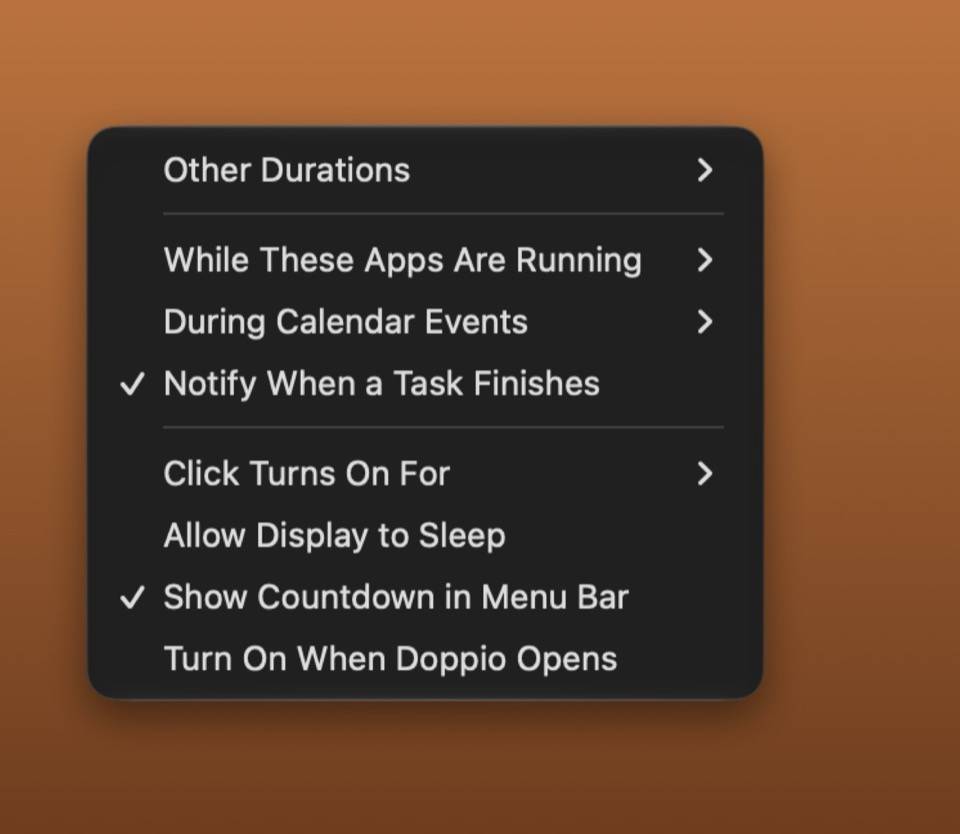
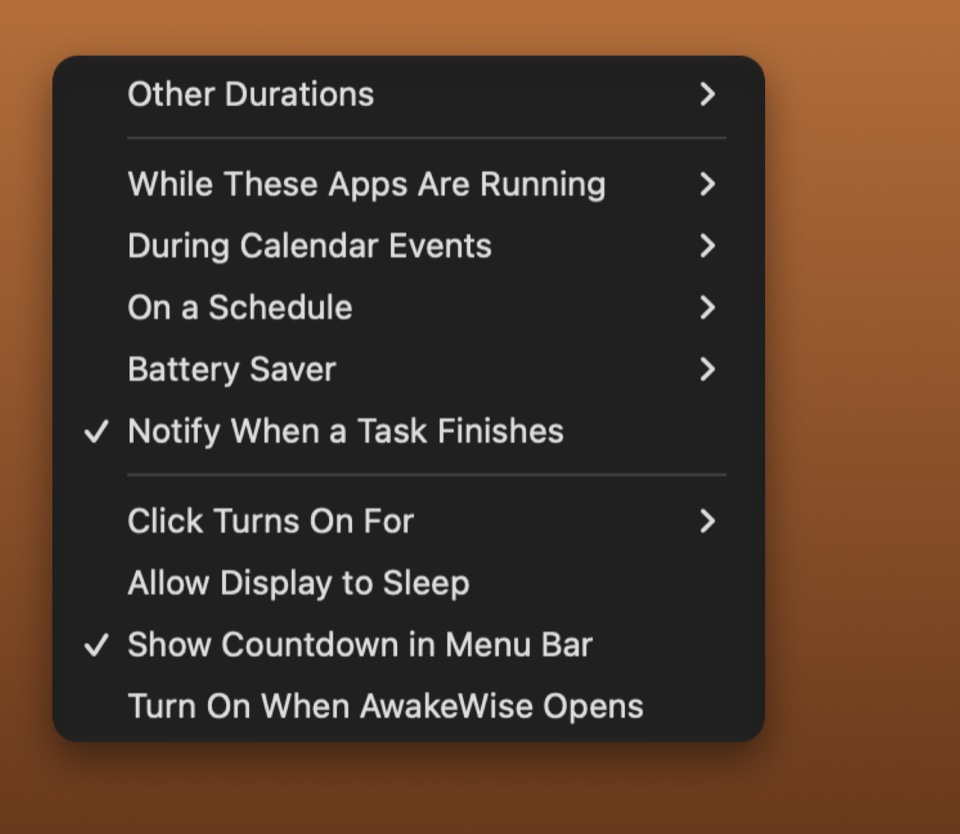
Rename site to AwakeWise and move to awakewiseapp.github.io

diff --git a/support.html b/support.html
@@ -1,6 +1,6 @@
 <!doctype html>
 <html lang="en"><head><meta charset="utf-8"><meta name="viewport" content="width=device-width, initial-scale=1">
-<title>Doppio Support</title><link rel="icon" href="icon.png"><style>
+<title>AwakeWise Support</title><link rel="icon" href="icon.png"><style>
   :root { --bg: #fbf8f4; --text: #2b1d14; --muted: #6f5a4b; --accent: #9a5a2c; --rule: #e8ddd2; }
   @media (prefers-color-scheme: dark) { :root { --bg: #1d1612; --text: #f2e9e1; --muted: #bba898; --accent: #e0a36f; --rule: #3a2d24; } }
   body { margin: 0; background: var(--bg); color: var(--text); font: 17px/1.6 -apple-system, BlinkMacSystemFont, "Helvetica Neue", sans-serif; }
@@ -16,31 +16,32 @@
   footer { margin-top: 48px; padding-top: 16px; border-top: 1px solid var(--rule); color: var(--muted); font-size: 15px; }
 </style></head>
 <body><main>
-<nav><a class="brand" href="./"><img src="icon.png" alt="">Doppio</a><a href="support.html">Support</a><a href="privacy.html">Privacy</a><a href="https://apps.apple.com/app/doppio-keep-awake/id6823794982">App Store</a></nav>
+<nav><a class="brand" href="./"><img src="icon.png" alt="">AwakeWise</a><a href="support.html">Support</a><a href="privacy.html">Privacy</a><a href="https://apps.apple.com/app/doppio-keep-awake/id6823794982">App Store</a></nav>
 <h1>Support</h1>
-<p>Found a problem or have an idea? <a href="https://github.com/drawohua/doppio/issues">Open an issue on GitHub</a> — please include your macOS version and what you expected to happen.</p>
+<p>Found a problem or have an idea? <a href="https://github.com/awakewiseapp/awakewiseapp.github.io/issues">Open an issue on GitHub</a> — please include your macOS version and what you expected to happen.</p>
 <h2>Common questions</h2>
-<p><strong>Where is Doppio?</strong> It's a menu bar app with no Dock icon. Look for the coffee cup near the clock. If your menu bar is crowded, macOS may tuck it away — hold ⌘ and drag it to the right.</p>
-<p><strong>How do I open the menu?</strong> Right-click (or Control-click) the cup. A normal click turns Doppio on or off.</p>
+<p><strong>Where is AwakeWise?</strong> It's a menu bar app with no Dock icon. Look for the coffee cup near the clock. If your menu bar is crowded, macOS may tuck it away — hold ⌘ and drag it to the right.</p>
+<p><strong>How do I open the menu?</strong> Right-click (or Control-click) the cup. A normal click turns AwakeWise on or off.</p>
 <p><strong>How do I keep awake until a Terminal command finishes?</strong> Run<br>
-<code>open -g "doppio://wait?label=Job" &amp;&amp; your-command; open -g "doppio://done?label=Job"</code></p>
+<code>open -g "awakewise://wait?label=Job" &amp;&amp; your-command; open -g "awakewise://done?label=Job"</code></p>
 <h2>All Terminal and script commands</h2>
-<p>Doppio understands these <code>doppio://</code> links. Run them with <code>open -g "…"</code> (keep the quotes). The same list is in the app: right-click the cup › Until a Task Finishes › From Terminal or Scripts…</p>
+<p>AwakeWise understands these <code>awakewise://</code> links. Run them with <code>open -g "…"</code> (keep the quotes). The same list is in the app: right-click the cup › Until a Task Finishes › From Terminal or Scripts…</p>
 <ul>
-<li><code>doppio://start</code> — turn on (add <code>?minutes=30</code> for a timer)</li>
-<li><code>doppio://stop</code> — turn off</li>
-<li><code>doppio://toggle</code> — turn on or off</li>
-<li><code>doppio://wait?label=NAME</code> — stay on until the matching <code>done</code></li>
-<li><code>doppio://wait?label=NAME&amp;pid=1234</code> — stay on until process 1234 quits</li>
-<li><code>doppio://wait?for=downloads</code> — stay on until downloads finish (or <code>for=transfers</code>, <code>for=idle</code>)</li>
-<li><code>doppio://done?label=NAME</code> — that task has finished; add <code>&amp;notify=0</code> for no notification</li>
+<li><code>awakewise://start</code> — turn on (add <code>?minutes=30</code> for a timer)</li>
+<li><code>awakewise://stop</code> — turn off</li>
+<li><code>awakewise://toggle</code> — turn on or off</li>
+<li><code>awakewise://wait?label=NAME</code> — stay on until the matching <code>done</code></li>
+<li><code>awakewise://wait?label=NAME&amp;pid=1234</code> — stay on until process 1234 quits</li>
+<li><code>awakewise://wait?for=downloads</code> — stay on until downloads finish (or <code>for=transfers</code>, <code>for=idle</code>)</li>
+<li><code>awakewise://done?label=NAME</code> — that task has finished; add <code>&amp;notify=0</code> for no notification</li>
 </ul>
 <p>A task started this way never turns off a session you started yourself.</p>
-<p><strong>AI coding tools</strong> such as Claude Code can call these from hooks so your Mac stays awake while they work: <code>doppio://wait?label=Claude</code> when a prompt is sent, <code>doppio://done?label=Claude&amp;notify=0</code> when it finishes.</p>
-<p><strong>Can I use Shortcuts, Siri or Control Center?</strong> Yes. In the Shortcuts app, search for Doppio to find Keep Mac Awake, Keep Mac Awake Until Done, Let Mac Sleep, Toggle Doppio and Is Doppio On — or ask Siri to "Turn on Doppio". On macOS 26 or later, open Control Center › Edit Controls and add "Keep Mac Awake".</p>
-<p><strong>How do "Downloads Finish", "Transfers Finish" and "The Mac Is Idle" know when to stop?</strong> Doppio checks every few seconds whether files in your Downloads folder are still growing, whether data is still moving over the network, or whether your Mac is still busy. Once things have been quiet for a minute or two, it turns off.</p>
-<p><strong>Why did Doppio switch off on battery?</strong> That's Battery Saver (right-click › More › Battery Saver). Below the level you choose, Doppio stops keeping your MacBook awake automatically so it can sleep. Clicking the cup still turns it on. Choose Never to switch it off.</p>
-<p><strong>Does Doppio change my settings?</strong> No. It uses Apple's standard power management while it's on. Quit Doppio and everything is as before.</p>
+<p><strong>AI coding tools</strong> such as Claude Code can call these from hooks so your Mac stays awake while they work: <code>awakewise://wait?label=Claude</code> when a prompt is sent, <code>awakewise://done?label=Claude&amp;notify=0</code> when it finishes.</p>
+<p><strong>Can I use Shortcuts, Siri or Control Center?</strong> Yes. In the Shortcuts app, search for AwakeWise to find Keep Mac Awake, Keep Mac Awake Until Done, Let Mac Sleep, Toggle AwakeWise and Is AwakeWise On — or ask Siri to "Turn on AwakeWise". On macOS 26 or later, open Control Center › Edit Controls and add "Keep Mac Awake".</p>
+<p><strong>How do "Downloads Finish", "Transfers Finish" and "The Mac Is Idle" know when to stop?</strong> AwakeWise checks every few seconds whether files in your Downloads folder are still growing, whether data is still moving over the network, or whether your Mac is still busy. Once things have been quiet for a minute or two, it turns off.</p>
+<p><strong>Why did AwakeWise switch off on battery?</strong> That's Battery Saver (right-click › More › Battery Saver). Below the level you choose, AwakeWise stops keeping your MacBook awake automatically so it can sleep. Clicking the cup still turns it on. Choose Never to switch it off.</p>
+<p><strong>Was AwakeWise called Doppio?</strong> Yes — Doppio became AwakeWise in version 1.1.1. Same app, same settings. Links that start with <code>doppio://</code> keep working, so you don't need to change your scripts or hooks.</p>
+<p><strong>Does AwakeWise change my settings?</strong> No. It uses Apple's standard power management while it's on. Quit AwakeWise and everything is as before.</p>
 <p><strong>Why does it ask for calendar access?</strong> Only if you turn on "During Calendar Events". Your events are read on your Mac and never leave it.</p>
-<footer>© 2026 Howard Au · Doppio</footer>
+<footer>© 2026 Howard Au · AwakeWise</footer>
 </main></body></html>

diff --git a/index.html b/index.html
@@ -1,10 +1,10 @@
 <!doctype html>
 <html lang="en"><head><meta charset="utf-8"><meta name="viewport" content="width=device-width, initial-scale=1">
-<title>Doppio — Keep your Mac awake until it's done</title>
+<title>AwakeWise — Keep your Mac awake until it's done</title>
 <meta name="description" content="A one-click menu bar app that keeps your Mac awake for as long as the work takes: until an app quits, a Terminal job finishes or a meeting ends. Free, no account, no data collected.">
-<meta property="og:title" content="Doppio — Keep your Mac awake until it's done">
+<meta property="og:title" content="AwakeWise — Keep your Mac awake until it's done">
 <meta property="og:description" content="One click in the menu bar. Stays awake until an app quits, a Terminal job finishes or a meeting ends — then lets your Mac sleep.">
-<meta property="og:image" content="https://drawohua.github.io/doppio/screenshot.png">
+<meta property="og:image" content="https://awakewiseapp.github.io/screenshot.png">
 <link rel="icon" href="icon.png"><style>
   :root { --bg: #fbf8f4; --card: #f3ece4; --text: #2b1d14; --muted: #6f5a4b; --accent: #9a5a2c; --on-accent: #fbf8f4; --rule: #e8ddd2; --code: #2b1d14; --code-text: #f2e9e1; }
   @media (prefers-color-scheme: dark) { :root { --bg: #1d1612; --card: #2a201a; --text: #f2e9e1; --muted: #bba898; --accent: #e0a36f; --on-accent: #1d1612; --rule: #3a2d24; --code: #120d0a; --code-text: #f2e9e1; } }
@@ -52,13 +52,13 @@
   }
 </style></head>
 <body><main>
-<nav><a class="brand" href="./"><img src="icon.png" alt="">Doppio</a><a href="support.html">Support</a><a href="privacy.html">Privacy</a><a href="https://apps.apple.com/app/doppio-keep-awake/id6823794982">App Store</a></nav>
+<nav><a class="brand" href="./"><img src="icon.png" alt="">AwakeWise</a><a href="support.html">Support</a><a href="privacy.html">Privacy</a><a href="https://apps.apple.com/app/doppio-keep-awake/id6823794982">App Store</a></nav>
 
 <h1>Keep your Mac awake <span class="nb">until it&#39;s done.</span></h1>
-<p class="lead">Most keep-awake apps make you guess how long. Doppio waits for the work itself — the export, the build, the download, the meeting — then lets your Mac sleep.</p>
-<div class="cta"><a class="get" href="https://apps.apple.com/app/doppio-keep-awake/id6823794982">Get Doppio on the Mac App Store</a><span class="muted">Free · No account · macOS 13 or later</span></div>
+<p class="lead">Most keep-awake apps make you guess how long. AwakeWise waits for the work itself — the export, the build, the download, the meeting — then lets your Mac sleep.</p>
+<div class="cta"><a class="get" href="https://apps.apple.com/app/doppio-keep-awake/id6823794982">Get AwakeWise on the Mac App Store</a><span class="muted">Free · No account · macOS 13 or later · Formerly Doppio</span></div>
 
-<img class="hero-shot" src="screenshot.png" alt="Doppio's menu in the macOS menu bar, showing a countdown and options such as 1 hour, 2 hours and Until a Task Finishes">
+<img class="hero-shot" src="screenshot.png" alt="AwakeWise's menu in the macOS menu bar, showing a countdown and options such as 1 hour, 2 hours and Until a Task Finishes">
 
 <section class="points">
   <div><h3>One click</h3><p>Click the cup to stay awake. Click again to stop. Nothing to set up.</p></div>
@@ -69,7 +69,7 @@
 <section class="row">
   <div class="text">
     <h2>Stay awake until it's done</h2>
-    <p class="muted">Tell Doppio what to wait for and it keeps your Mac awake until the work is done. No timer to run out halfway through.</p>
+    <p class="muted">Tell AwakeWise what to wait for and it keeps your Mac awake until the work is done. No timer to run out halfway through.</p>
     <ul>
       <li>Until downloads finish, network transfers finish, or your Mac goes idle — no need to know which app is doing the work</li>
       <li>Until a folder stops changing — perfect for exports and renders</li>
@@ -79,7 +79,7 @@
       <li>Or simply 1 hour, 2 hours, or indefinitely</li>
     </ul>
   </div>
-  <img src="until-done.jpg" alt="Doppio's 'Wait for this app to quit' menu listing Music, QuickTime Player, Terminal and Xcode">
+  <img src="until-done.jpg" alt="AwakeWise's 'Wait for this app to quit' menu listing Music, QuickTime Player, Terminal and Xcode">
 </section>
 
 <section class="row flip">
@@ -96,15 +96,15 @@
       <li>Countdown in the menu bar and an optional "done" notification</li>
     </ul>
   </div>
-  <img src="automatic.jpg" alt="Doppio's settings menu with While These Apps Are Running, During Calendar Events and Allow Display to Sleep">
+  <img src="automatic.jpg" alt="AwakeWise's settings menu with While These Apps Are Running, During Calendar Events and Allow Display to Sleep">
 </section>
 
 <section class="dev">
   <div class="text">
     <h2>Built for long jobs and AI coding tools</h2>
-    <p class="muted">Any script or tool can tell Doppio "keep the Mac awake until I'm done". Each job has its own name, so several can run at once, and none of them will switch off a session you started yourself.</p>
-<pre><code>open -g "doppio://wait?label=Export" &amp;&amp; ./export.sh
-open -g "doppio://done?label=Export"</code></pre>
+    <p class="muted">Any script or tool can tell AwakeWise "keep the Mac awake until I'm done". Each job has its own name, so several can run at once, and none of them will switch off a session you started yourself.</p>
+<pre><code>open -g "awakewise://wait?label=Export" &amp;&amp; ./export.sh
+open -g "awakewise://done?label=Export"</code></pre>
     <p class="muted" style="margin-top:16px">Add the same two lines as hooks in your AI coding assistant and your Mac stays awake while it works, then sleeps when it's finished. <a href="support.html">All commands</a></p>
   </div>
 </section>
@@ -112,8 +112,8 @@ open -g "doppio://done?label=Export"</code></pre>
 <section class="closing">
   <h2>A small app that does one job well.</h2>
   <p class="muted">Uses Apple's standard power management. Collects no data.</p>
-  <div class="cta"><a class="get" href="https://apps.apple.com/app/doppio-keep-awake/id6823794982">Get Doppio — it&#39;s free</a></div>
+  <div class="cta"><a class="get" href="https://apps.apple.com/app/doppio-keep-awake/id6823794982">Get AwakeWise — it&#39;s free</a></div>
 </section>
 
-<footer>© 2026 Howard Au · Doppio · <a href="support.html">Support</a> · <a href="privacy.html">Privacy</a></footer>
+<footer>© 2026 Howard Au · AwakeWise · <a href="support.html">Support</a> · <a href="privacy.html">Privacy</a></footer>
 </main></body></html>

diff --git a/privacy.html b/privacy.html
@@ -3,7 +3,7 @@
 <head>
 <meta charset="utf-8">
 <meta name="viewport" content="width=device-width, initial-scale=1">
-<title>Doppio Privacy Policy</title>
+<title>AwakeWise Privacy Policy</title>
 <style>
   :root { --bg: #fbf8f4; --text: #2b1d14; --muted: #6f5a4b; --accent: #9a5a2c; --rule: #e8ddd2; }
   @media (prefers-color-scheme: dark) {
@@ -22,37 +22,37 @@
 </head>
 <body>
 <main>
-  <h1>Doppio Privacy Policy</h1>
+  <h1>AwakeWise Privacy Policy</h1>
   <p class="date">Last updated: 19 November 2026</p>
 
-  <p class="summary"><strong>In short:</strong> Doppio collects no personal data, has no accounts, no analytics and no advertising, and never connects to the internet.</p>
+  <p class="summary"><strong>In short:</strong> AwakeWise collects no personal data, has no accounts, no analytics and no advertising, and never connects to the internet.</p>
 
-  <h2>What Doppio does</h2>
-  <p>Doppio is a menu bar app that keeps your Mac awake. It does this with Apple's standard power-management feature, and only while you have asked it to.</p>
+  <h2>What AwakeWise does</h2>
+  <p>AwakeWise is a menu bar app that keeps your Mac awake. It does this with Apple's standard power-management feature, and only while you have asked it to.</p>
 
   <h2>Information we collect</h2>
-  <p>None. Doppio does not collect, store on a server, sell or share any information about you or how you use your Mac. It contains no analytics, tracking or advertising code, and it makes no network connections.</p>
+  <p>None. AwakeWise does not collect, store on a server, sell or share any information about you or how you use your Mac. It contains no analytics, tracking or advertising code, and it makes no network connections.</p>
 
   <h2>Information that stays on your Mac</h2>
   <ul>
-    <li><strong>Settings</strong> — your choices (for example the apps that turn Doppio on, or your default duration) are saved in Doppio's own preferences on your Mac.</li>
-    <li><strong>Calendar</strong> — only if you turn on “During Calendar Events”, Doppio asks for calendar access and reads the times of your current events to decide whether to keep your Mac awake. Event details are read on your Mac, are not stored by Doppio and never leave your Mac. You can withdraw access at any time in System Settings › Privacy &amp; Security › Calendars.</li>
-    <li><strong>Running apps</strong> — to offer “Until a Task Finishes” and “While These Apps Are Running”, Doppio looks at which apps are open on your Mac. This information is used only at that moment and is not recorded.</li>
-    <li><strong>Downloads, folders and activity</strong> — only while you use “Downloads Finish”, “A Folder Stops Changing”, “Transfers Finish” or “The Mac Is Idle”, Doppio checks the names and sizes of files in your Downloads folder or the folder you chose, the Mac's total network traffic, or overall processor load, to tell whether work is still going on. Files are never opened, copied or sent, and nothing is recorded.</li>
-    <li><strong>Battery level</strong> — if Battery Saver is on, Doppio reads your battery level and whether you're plugged in. It is not recorded.</li>
-    <li><strong>Notifications</strong> — if you allow them, Doppio shows a local notification when a task finishes. No notification is sent through any server.</li>
+    <li><strong>Settings</strong> — your choices (for example the apps that turn AwakeWise on, or your default duration) are saved in AwakeWise's own preferences on your Mac.</li>
+    <li><strong>Calendar</strong> — only if you turn on “During Calendar Events”, AwakeWise asks for calendar access and reads the times of your current events to decide whether to keep your Mac awake. Event details are read on your Mac, are not stored by AwakeWise and never leave your Mac. You can withdraw access at any time in System Settings › Privacy &amp; Security › Calendars.</li>
+    <li><strong>Running apps</strong> — to offer “Until a Task Finishes” and “While These Apps Are Running”, AwakeWise looks at which apps are open on your Mac. This information is used only at that moment and is not recorded.</li>
+    <li><strong>Downloads, folders and activity</strong> — only while you use “Downloads Finish”, “A Folder Stops Changing”, “Transfers Finish” or “The Mac Is Idle”, AwakeWise checks the names and sizes of files in your Downloads folder or the folder you chose, the Mac's total network traffic, or overall processor load, to tell whether work is still going on. Files are never opened, copied or sent, and nothing is recorded.</li>
+    <li><strong>Battery level</strong> — if Battery Saver is on, AwakeWise reads your battery level and whether you're plugged in. It is not recorded.</li>
+    <li><strong>Notifications</strong> — if you allow them, AwakeWise shows a local notification when a task finishes. No notification is sent through any server.</li>
   </ul>
 
   <h2>Children</h2>
-  <p>Doppio does not collect data from anyone, including children.</p>
+  <p>AwakeWise does not collect data from anyone, including children.</p>
 
   <h2>Changes to this policy</h2>
   <p>If this policy changes, the new version will be posted on this page with a new date.</p>
 
   <h2>Contact</h2>
-  <p>Questions about privacy? <a href="https://github.com/drawohua/doppio/issues">Open an issue on GitHub</a>.</p>
+  <p>Questions about privacy? <a href="https://github.com/awakewiseapp/awakewiseapp.github.io/issues">Open an issue on GitHub</a>.</p>
 
-  <footer>© 2026 Howard Au · Doppio</footer>
+  <footer>© 2026 Howard Au · AwakeWise</footer>
 </main>
 </body>
 </html>

diff --git a/README.md b/README.md
@@ -1,7 +1,7 @@
-# Doppio
+# AwakeWise
 
-Website for Doppio, a menu bar app that keeps your Mac awake.
+Website for AwakeWise, a menu bar app that keeps your Mac awake.
 
-- Home: https://drawohua.github.io/doppio/
-- Support: https://drawohua.github.io/doppio/support.html
-- Privacy policy: https://drawohua.github.io/doppio/privacy.html
+- Home: https://awakewiseapp.github.io/
+- Support: https://awakewiseapp.github.io/support.html
+- Privacy policy: https://awakewiseapp.github.io/privacy.html
